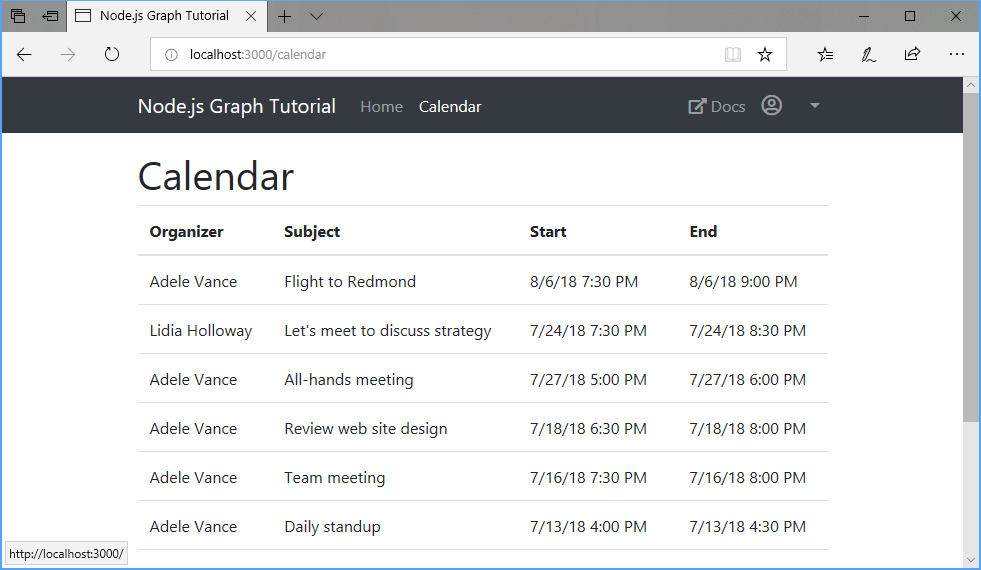
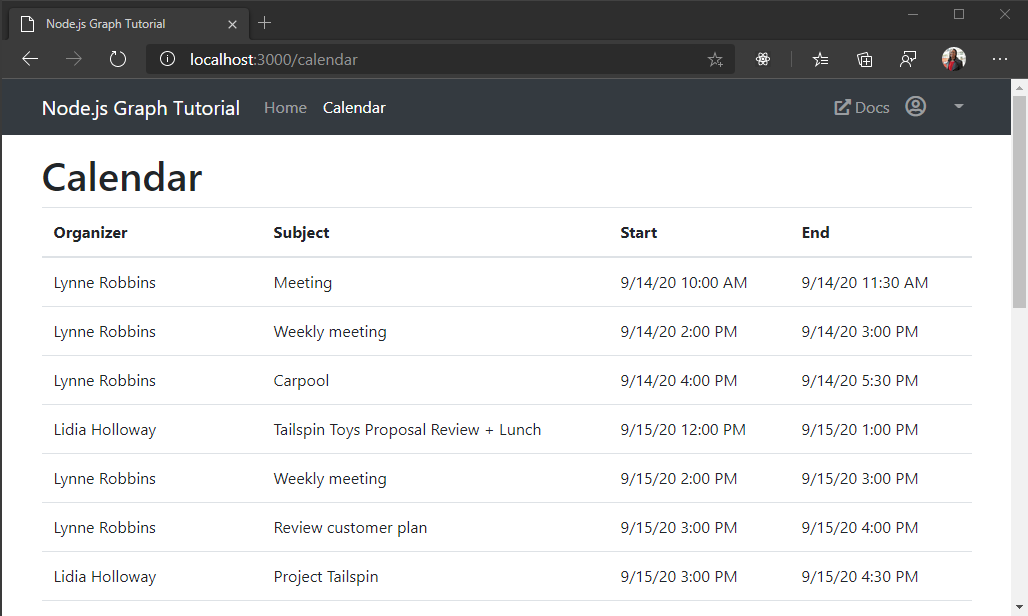
Completed get calendar view step

diff --git a/demo/graph-tutorial/routes/calendar.js b/demo/graph-tutorial/routes/calendar.js
@@ -1,0 +1,94 @@
+// Copyright (c) Microsoft Corporation.
+// Licensed under the MIT License.
+
+const router = require('express-promise-router')();
+const graph = require('../graph.js');
+const moment = require('moment-timezone');
+const iana = require('windows-iana');
+
+/* GET /calendar */
+// <GetRouteSnippet>
+router.get('/',
+  async function(req, res) {
+    if (!req.session.userId) {
+      // Redirect unauthenticated requests to home page
+      res.redirect('/')
+    } else {
+      const params = {
+        active: { calendar: true }
+      };
+
+      // Get the user
+      const user = req.app.locals.users[req.session.userId];
+      // Convert user's Windows time zone ("Pacific Standard Time")
+      // to IANA format ("America/Los_Angeles")
+      // Moment needs IANA format
+      const timeZoneId = iana.findOneIana(user.timeZone);
+      console.log(`Time zone: ${timeZoneId.valueOf()}`);
+
+      // Calculate the start and end of the current week
+      // Get midnight on the start of the current week in the user's timezone,
+      // but in UTC. For example, for Pacific Standard Time, the time value would be
+      // 07:00:00Z
+      var startOfWeek = moment.tz(timeZoneId.valueOf()).startOf('week').utc();
+      var endOfWeek = moment(startOfWeek).add(7, 'day');
+      console.log(`Start: ${startOfWeek.format()}`);
+
+      // Get the access token
+      var accessToken;
+      try {
+        accessToken = await getAccessToken(req.session.userId, req.app.locals.msalClient);
+      } catch (err) {
+        req.flash('error_msg', {
+          message: 'Could not get access token. Try signing out and signing in again.',
+          debug: JSON.stringify(err, Object.getOwnPropertyNames(err))
+        });
+        return;
+      }
+
+      if (accessToken && accessToken.length > 0) {
+        try {
+          // Get the events
+          const events = await graph.getCalendarView(
+            accessToken,
+            startOfWeek.format(),
+            endOfWeek.format(),
+            user.timeZone);
+
+          params.events = events.value;
+        } catch (err) {
+          req.flash('error_msg', {
+            message: 'Could not fetch events',
+            debug: JSON.stringify(err, Object.getOwnPropertyNames(err))
+          });
+        }
+      }
+      else {
+        req.flash('error_msg', 'Could not get an access token');
+      }
+
+      res.render('calendar', params);
+    }
+  }
+);
+// </GetRouteSnippet>
+
+async function getAccessToken(userId, msalClient) {
+  // Look up the user's account in the cache
+  const accounts = msalClient
+    .getTokenCache()
+    .getAllAccounts();
+
+  const userAccount = accounts.find(a => a.homeAccountId === userId);
+
+  // Get the token silently
+  const response = await msalClient.acquireTokenSilent({
+    scopes: process.env.OAUTH_SCOPES.split(','),
+    redirectUri: process.env.OAUTH_REDIRECT_URI,
+    account: userAccount
+  });
+
+  return response.accessToken;
+}
+
+module.exports = router;

diff --git a/demo/graph-tutorial/graph.js b/demo/graph-tutorial/graph.js
@@ -10,10 +10,32 @@ module.exports = {
 
     const user = await client
       .api('/me')
-      .select('displayName,mail,userPrincipalName')
+      .select('displayName,mail,mailboxSettings,userPrincipalName')
       .get();
     return user;
-  }
+  },
+
+  // <GetCalendarViewSnippet>
+  getCalendarView: async function(accessToken, start, end, timeZone) {
+    const client = getAuthenticatedClient(accessToken);
+
+    const events = await client
+      .api('/me/calendarview')
+      // Add Prefer header to get back times in user's timezone
+      .header("Prefer", `outlook.timezone="${timeZone}"`)
+      // Add the begin and end of the calendar window
+      .query({ startDateTime: start, endDateTime: end })
+      // Get just the properties used by the app
+      .select('subject,organizer,start,end')
+      // Order by start time
+      .orderby('start/dateTime')
+      // Get at most 50 results
+      .top(50)
+      .get();
+
+    return events;
+  },
+  // </GetCalendarViewSnippet>
 };
 
 function getAuthenticatedClient(accessToken) {

diff --git a/demo/graph-tutorial/app.js b/demo/graph-tutorial/app.js
@@ -14,6 +14,7 @@ require('dotenv').config();
 var indexRouter = require('./routes/index');
 var usersRouter = require('./routes/users');
 var authRouter = require('./routes/auth');
+var calendarRouter = require('./routes/calendar');
 
 var app = express();
 
@@ -86,6 +87,15 @@ app.use(function(req, res, next) {
 app.set('views', path.join(__dirname, 'views'));
 app.set('view engine', 'hbs');
 
+// <FormatDateSnippet>
+var hbs = require('hbs');
+var moment = require('moment');
+// Helper to format date/time sent by Graph
+hbs.registerHelper('eventDateTime', function(dateTime){
+  return moment(dateTime).format('M/D/YY h:mm A');
+});
+// </FormatDateSnippet>
+
 app.use(logger('dev'));
 app.use(express.json());
 app.use(express.urlencoded({ extended: false }));
@@ -94,6 +104,7 @@ app.use(express.static(path.join(__dirname, 'public')));
 
 app.use('/', indexRouter);
 app.use('/auth', authRouter);
+app.use('/calendar', calendarRouter);
 app.use('/users', usersRouter);
 
 // catch 404 and forward to error handler

diff --git a/demo/graph-tutorial/routes/auth.js b/demo/graph-tutorial/routes/auth.js
@@ -21,7 +21,7 @@ router.get('/signin',
       console.log(`Error: ${error}`);
       req.flash('error_msg', {
         message: 'Error getting auth URL',
-        debug: JSON.stringify(error)
+        debug: JSON.stringify(error, Object.getOwnPropertyNames(error))
       });
       res.redirect('/');
     }
@@ -49,12 +49,13 @@ router.get('/callback',
       // Add the user to user storage
       req.app.locals.users[req.session.userId] = {
         displayName: user.displayName,
-        email: user.mail || user.userPrincipalName
+        email: user.mail || user.userPrincipalName,
+        timeZone: user.mailboxSettings.timeZone
       };
     } catch(error) {
       req.flash('error_msg', {
         message: 'Error completing authentication',
-        debug: JSON.stringify(error)
+        debug: JSON.stringify(error, Object.getOwnPropertyNames(error))
       });
     }
 

diff --git a/tutorial/05-add-ms-graph.md b/tutorial/05-add-ms-graph.md
@@ -17,38 +17,59 @@ In this exercise you will incorporate Microsoft Graph into the application. For 
 1. Create a new file in the `./routes` directory named `calendar.js`, and add the following code.
 
     ```javascript
-    var express = require('express');
-    var router = express.Router();
-    var tokens = require('../tokens.js');
-    var graph = require('../graph.js');
+    const router = require('express-promise-router')();
+    const graph = require('../graph.js');
+    const moment = require('moment-timezone');
+    const iana = require('windows-iana');
 
     /* GET /calendar */
     router.get('/',
       async function(req, res) {
-        if (!req.isAuthenticated()) {
+        if (!req.session.userId) {
           // Redirect unauthenticated requests to home page
           res.redirect('/')
         } else {
-          let params = {
+          const params = {
             active: { calendar: true }
           };
+
+          // Get the user
+          const user = req.app.locals.users[req.session.userId];
+          // Convert user's Windows time zone ("Pacific Standard Time")
+          // to IANA format ("America/Los_Angeles")
+          // Moment needs IANA format
+          const timeZoneId = iana.findOneIana(user.timeZone);
+          console.log(`Time zone: ${timeZoneId.valueOf()}`);
+
+          // Calculate the start and end of the current week
+          // Get midnight on the start of the current week in the user's timezone,
+          // but in UTC. For example, for Pacific Standard Time, the time value would be
+          // 07:00:00Z
+          var startOfWeek = moment.tz(timeZoneId.valueOf()).startOf('week').utc();
+          var endOfWeek = moment(startOfWeek).add(7, 'day');
+          console.log(`Start: ${startOfWeek.format()}`);
 
           // Get the access token
           var accessToken;
           try {
-            accessToken = await tokens.getAccessToken(req);
+            accessToken = await getAccessToken(req.session.userId, req.app.locals.msalClient);
           } catch (err) {
-            res.json(err);
+            res.send(JSON.stringify(err, Object.getOwnPropertyNames(err)));
+            return;
           }
 
           if (accessToken && accessToken.length > 0) {
             try {
               // Get the events
-              var events = await graph.getEvents(accessToken);
+              const events = await graph.getCalendarView(
+                accessToken,
+                startOfWeek.format(),
+                endOfWeek.format(),
+                user.timeZone);
 
               res.json(events.value);
             } catch (err) {
-              res.json(err);
+              res.send(JSON.stringify(err, Object.getOwnPropertyNames(err)));
             }
           }
           else {
@@ -57,6 +78,24 @@ In this exercise you will incorporate Microsoft Graph into the application. For 
         }
       }
     );
+
+    async function getAccessToken(userId, msalClient) {
+      // Look up the user's account in the cache
+      const accounts = msalClient
+        .getTokenCache()
+        .getAllAccounts();
+
+      const userAccount = accounts.find(a => a.homeAccountId === userId);
+
+      // Get the token silently
+      const response = await msalClient.acquireTokenSilent({
+        scopes: process.env.OAUTH_SCOPES.split(','),
+        redirectUri: process.env.OAUTH_REDIRECT_URI,
+        account: userAccount
+      });
+
+      return response.accessToken;
+    }
 
     module.exports = router;
     ```
@@ -93,7 +132,7 @@ Now you can add a view to display the results in a more user-friendly manner.
 
 1. Now update the route in `./routes/calendar.js` to use this view. Replace the existing route with the following code.
 
-    :::code language="javascript" source="../demo/graph-tutorial/routes/calendar.js" id="GetRouteSnippet" highlight="16-19,26,28-31,37":::
+    :::code language="javascript" source="../demo/graph-tutorial/routes/calendar.js" id="GetRouteSnippet" highlight="32-35,48,50-53,60":::
 
 1. Save your changes, restart the server, and sign in to the app. Click on the **Calendar** link and the app should now render a table of events.
 

diff --git a/tutorial/02-create-app.md b/tutorial/02-create-app.md
@@ -42,6 +42,7 @@ Before moving on, install some additional packages that you will use later:
 
 - [dotenv](https://github.com/motdotla/dotenv) for loading values from a .env file.
 - [moment](https://github.com/moment/moment/) for formatting date/time values.
+- [windows-iana](https://github.com/rubenillodo/windows-iana) for translating Windows time zone names to IANA time zone IDs.
 - [connect-flash](https://github.com/jaredhanson/connect-flash) to flash error messages in the app.
 - [express-session](https://github.com/expressjs/session) to store values in an in-memory server-side session.
 - [express-promise-router](https://github.com/express-promise-router/express-promise-router) to allow route handlers to return a Promise.
@@ -53,8 +54,8 @@ Before moving on, install some additional packages that you will use later:
 1. Run the following command in your CLI.
 
     ```Shell
-    npm install dotenv@8.2.0 moment@2.28.0 connect-flash@0.1.1 express-session@1.17.1 isomorphic-fetch@2.2.1
-    npm install @azure/msal-node@1.0.0-alpha.5 @microsoft/microsoft-graph-client@2.0.0
+    npm install dotenv@8.2.0 moment@2.28.0 moment-timezone@0.5.31 connect-flash@0.1.1 express-session@1.17.1 isomorphic-fetch@2.2.1
+    npm install @azure/msal-node@1.0.0-alpha.5 @microsoft/microsoft-graph-client@2.0.0 windows-iana@4.2.1
     ```
 
     > [!TIP]

diff --git a/tutorial/04-add-aad-auth.md b/tutorial/04-add-aad-auth.md
@@ -47,7 +47,7 @@ In this exercise you will extend the application from the previous exercise to s
           console.log(`Error: ${error}`);
           req.flash('error_msg', {
             message: 'Error getting auth URL',
-            debug: JSON.stringify(error)
+            debug: JSON.stringify(error, Object.getOwnPropertyNames(error))
           });
           res.redirect('/');
         }
@@ -75,7 +75,7 @@ In this exercise you will extend the application from the previous exercise to s
         } catch (error) {
           req.flash('error_msg', {
             message: 'Error completing authentication',
-            debug: JSON.stringify(error)
+            debug: JSON.stringify(error, Object.getOwnPropertyNames(error))
           });
         }
 
@@ -148,10 +148,10 @@ Start the server and browse to `https://localhost:3000`. Click the sign-in butto
 
         const user = await client
           .api('/me')
-          .select('displayName,mail,userPrincipalName')
+          .select('displayName,mail,mailboxSettings,userPrincipalName')
           .get();
         return user;
-      }
+      },
     };
 
     function getAuthenticatedClient(accessToken) {
